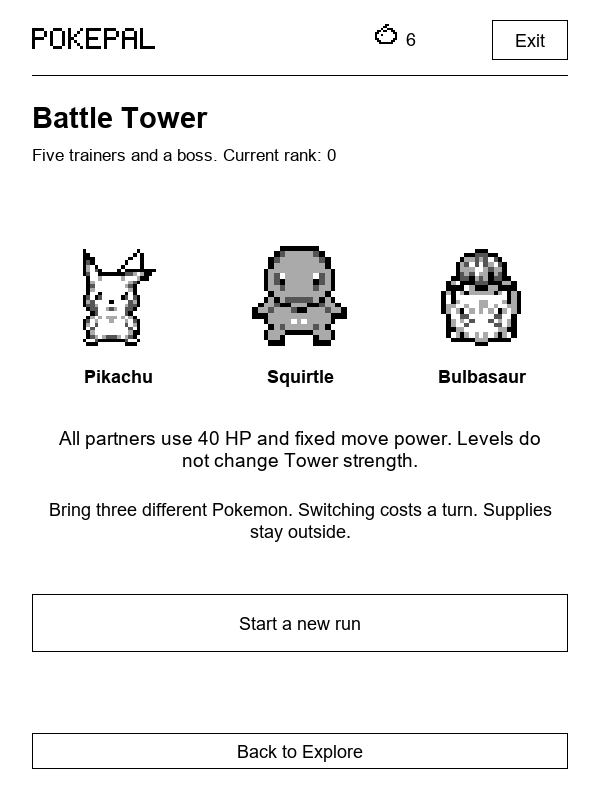
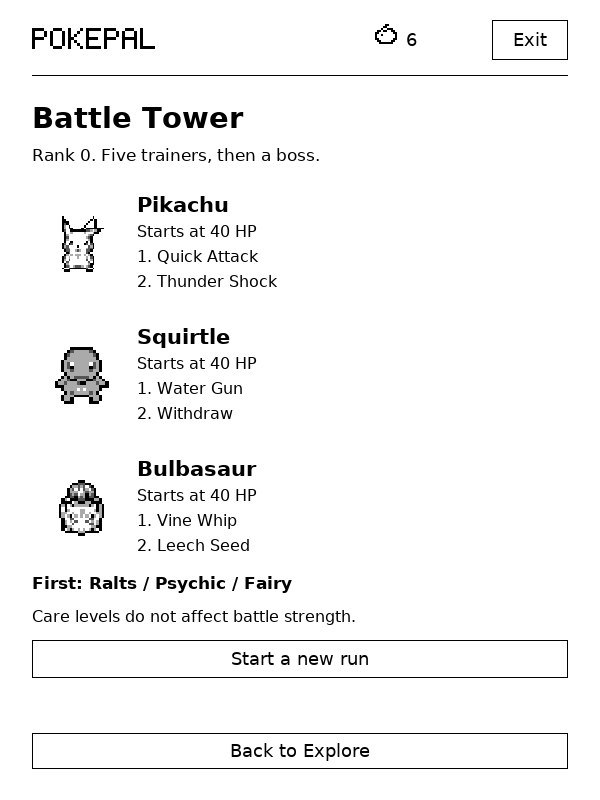
Add battle previews, family move pairs and clearer town progress

diff --git a/tests/world_layouts.py b/tests/world_layouts.py
@@ -44,7 +44,7 @@ def run(c):
                         image.save(out / f'world-{name}.png')
                     count += 1
                 v.leave(v)
-                for name in ('worldparty', 'worldchoose', 'worldmoves', 'worldshop', 'worldquests', 'worldtower', 'worldswitch', 'tower-benefits'):
+                for name in ('worldparty', 'party-overview', 'worldchoose', 'worldmoves', 'worldshop', 'worldquests', 'quests-return', 'quests-complete', 'worldtower', 'worldswitch', 'tower-benefits', 'tower-boss-preview'):
                     v = g.newView(25)
                     v.state.animation = 'off'
                     v.go(v, 'explore')
@@ -52,16 +52,29 @@ def run(c):
                     w.map = 'centre'
                     assert g.E.world.town.party(v.state, g.E, 2, 7)
                     assert g.E.world.town.party(v.state, g.E, 3, 1)
-                    w.map = 'dojo' if name == 'worldmoves' else 'tower' if name in ('worldtower', 'tower-benefits') else 'shop' if name == 'worldshop' else 'centre'
+                    w.map = 'dojo' if name == 'worldmoves' else 'tower' if name in ('worldtower', 'tower-benefits', 'tower-boss-preview') else 'shop' if name == 'worldshop' else 'woods' if name == 'party-overview' else 'centre'
                     if large:
                         g.E.act(v.state, 'preference', 'large_text', int(v.state.last))
                         g.E.act(v.state, 'preference', 'high_contrast', int(v.state.last))
-                    if name == 'tower-benefits':
+                    if name in ('tower-benefits', 'tower-boss-preview'):
                         assert g.E.world.town.startTower(v.state, g.E)
+                        if name == 'tower-boss-preview':
+                            w.camp.tower.floor = 5
+                            g.E.world.town.towerBattle(v.state, g.E)
                         w.battle.hp = 1
                         assert g.E.world.turn(v.state, g.E, 1, int(v.state.last))
                         assert g.E.world.finish(v.state)
-                    v.go(v, 'worldtower' if name == 'tower-benefits' else name)
+                    if name == 'worldswitch':
+                        assert g.E.world.town.party(v.state, g.E, 3, 92)
+                        w.map, w.x, w.y = 'meadow', 9, 2
+                        assert g.E.world.startBattle(v.state, 2)
+                        w.camp.health['7'] = 1
+                    if name == 'party-overview':
+                        w.hp, w.camp.health['7'] = 23, 0
+                    if name in ('quests-return', 'quests-complete'):
+                        w.camp.quests = 21 if name == 'quests-return' else 63
+                    screen = {'party-overview':'worldparty', 'quests-return':'worldquests', 'quests-complete':'worldquests', 'tower-benefits':'worldtower', 'tower-boss-preview':'worldtower'}.get(name, name)
+                    v.go(v, screen)
                     image = paint(v, width, height)
                     assert not c['truncated'], (name, width, large, dpi, c['truncated'])
                     if width == 600 and not large and dpi == 160:

diff --git a/docs/explore-prototype.md b/docs/explore-prototype.md
@@ -12,6 +12,8 @@ Explore opens where you last stopped. Fern Town is your base; its north path lea
 
 Tap a destination or use the directional pad. Help lets you hide the pad. Each map fits on one screen and changes at an exit. Trainers have standing, walking and battle poses. All 386 Pokémon have separate front, rear, left and right walking frames from the credited SpriteCollab sheets. Movement ends after reaching the destination; standing still schedules no animation.
 
+Tap Party on any map to check each partner's HP and two equipped moves. Fainted partners are marked. The Centre still handles healing and party changes; you can equip moves there or at the dojo.
+
 ## Routes and neighbours
 
 Fern Meadow has Caterpie, Rattata and Geodude. Fern Woods adds Oddish, Hoothoot and a trainer with Metapod. The Coast has Wingull, Krabby and a Staryu trainer. Moon Cave has Zubat, Aron and an Onix trainer.
@@ -24,11 +26,38 @@ Speak to the town guide for three small quests:
 
 Defeat the Coast trainer to open Moon Cave. Marked discoveries give a berry once. Quest rewards and first-win rewards cannot be claimed again.
 
+The town guide shows each task's progress and reward. Once you finish an objective, its status changes to Return. Claiming the reward marks it Completed. Mira's Pikachu leaves the woods when you return it, and you can walk through its old spot.
+
 ## Two moves per Pokémon
 
 Choose three Pokémon at the Centre. All 386 are available. Party battle HP is separate from care stats, and switching companions at home does not erase the party's injuries.
 
-Each partner starts with two learned moves. Pikachu's family has Quick Attack and Thunder Shock; Squirtle's has Water Gun and Withdraw; Bulbasaur's has Vine Whip and Leech Seed. Other partners start with Quick strike and a burst of their primary type.
+Each partner starts with two learned moves. Pikachu's family has Quick Attack and Thunder Shock; Squirtle's has Water Gun and Withdraw; Bulbasaur's has Vine Whip and Leech Seed. There are 20 more starting pairs:
+
+| Pokémon line | Starting moves |
+| --- | --- |
+| Charmander | Ember, Smokescreen |
+| Sandshrew | Scratch, Defense Curl |
+| Zubat | Wing Attack, Leech Life |
+| Oddish | Absorb, Acid |
+| Abra | Confusion, Reflect |
+| Machop | Karate Chop, Bulk Up |
+| Geodude | Rock Throw, Defense Curl |
+| Gastly | Lick, Night Shade |
+| Vaporeon | Water Gun, Acid Armor |
+| Jolteon | Pin Missile, Thunder Shock |
+| Snorlax | Body Slam, Amnesia |
+| Chikorita | Razor Leaf, Reflect |
+| Totodile | Bite, Water Gun |
+| Treecko | Quick Attack, Mega Drain |
+| Torchic | Peck, Ember |
+| Mudkip | Water Gun, Mud Slap |
+| Lotad | Water Gun, Mega Drain |
+| Shroomish | Mega Drain, Leech Seed |
+| Aron | Metal Claw, Iron Defense |
+| Spheal | Powder Snow, Defense Curl |
+
+These pairs carry through each evolution. Zubat can interrupt a charge or recover HP. Geodude can break a guard or block an attack before countering. Shroomish can keep draining HP, but has no quick move to interrupt a charge. Pokémon without a family pair use Quick strike and a burst of their primary type.
 
 The dojo teaches Protect and Drain strike for two berries and six energy each. Drain strike becomes available after a wild or practice win. Choose either equipped slot and tap a learned move to replace it. The two slots must contain different moves.
 
@@ -36,19 +65,21 @@ The dojo teaches Protect and Drain strike for two berries and six energy each. D
 | --- | --- |
 | Quick | Interrupts a charging opponent |
 | Burst | Deals extra damage through a guard |
-| Withdraw / Protect | Reduces incoming damage and strengthens the next hit after a successful block |
+| Guard | Reduces incoming damage and strengthens the next hit after a successful block |
 | Leech Seed | Drains up to three HP for three turns |
-| Drain strike | Uses the partner's primary type and restores three HP when it hits |
+| Drain | Restores up to three HP when the hit deals damage |
 
-The opponent shows whether it is attacking, guarding or charging before you decide. Type advantages and immunities apply. These are PokePal rules, including the shared dojo moves; they are separate from main-series move legality.
+The opponent shows whether it is attacking, guarding or charging before you decide. Move buttons tell you when a hit will interrupt that charge, break that guard or fail against an immune opponent. A defensive move shows how much damage you will take. Type advantages and immunities apply. Move effects follow PokePal's rules, including the family pairs and shared dojo moves.
 
-Switching uses a turn, including when replacing a fainted partner. A potion costs two berries, restores up to 16 HP and also uses a turn in battle. Potions cannot revive a fainted partner. The Centre heals everyone for free.
+The switch screen shows how much damage each partner will take and the HP they will have after that turn. It includes type immunity, Leech Seed and Tower healing bonuses. Switching uses a turn, including when replacing a fainted partner. A potion costs two berries, restores up to 16 HP and also uses a turn in battle. Potions cannot revive a fainted partner. The Centre heals everyone for free.
 
 A first win against each route opponent gives one berry, three XP and one bond to the battling partner, and records the opponent in the journal. Rematches and dojo practice do not pay battle rewards. Losing with the whole party sends you to the Centre. Leaving an encounter gives no reward.
 
 ## Battle Tower
 
 Choose three different Pokémon before starting. The party begins at full HP. All partners use 40 HP and fixed move power, so care levels do not determine Tower strength.
+
+Before a run, the Tower shows all three partners, their equipped moves and the first opponent's type. After a win, you can see the next opponent's type and attack type before choosing a benefit. You can also check the party's remaining HP from that screen.
 
 There are five trainer battles followed by a boss. Trainer order and the boss change between attempts. After each of the first five wins, choose one temporary benefit:
 
@@ -64,6 +95,8 @@ Each turn and benefit choice is saved. Pause, close PokePal or put the Kindle to
 
 Back up the entire `pokepal` folder before trying this branch. Opening Explore upgrades the save to version 6. Existing version 5 map and battle saves migrate with their turn and health intact. Older builds cannot read version 6; update both editions, or restore your backup before returning to 1.0.9.
 
+Family move pairs update with this build. Learned dojo moves and equipped slot choices stay saved.
+
 The game code is shared by KUAL and KOReader. Tests cover route navigation, party health, move learning, reward duplication, Tower reloads, failed saves, sleep, touch controls and larger text. The screenshots below come from the desktop test renderer. Physical Kindle refresh speed and touch response still need a device test.
 
 | Town | Party |
@@ -73,5 +106,9 @@ The game code is shared by KUAL and KOReader. Tests cover route navigation, part
 | Tower | Battle |
 | --- | --- |
 | ![Battle Tower](explore-tower.png) | ![Battle](explore-battle.png) |
+
+| Quest progress | Next Tower opponent |
+| --- | --- |
+| ![Quest progress](explore-quests.png) | ![Tower benefits](explore-benefits.png) |
 
 The harbour town and mountain village remain later additions. This branch has one town with four outdoor areas.

diff --git a/README.md b/README.md
@@ -8,6 +8,8 @@ A Pokémon pet for your Kindle. Feed it, play together and watch it grow.
 
 This branch adds [Fern Town and Explore](docs/explore-prototype.md): a three-Pokémon party, learned move choices, four outdoor areas, quests, shops and a six-battle Tower run. All 386 Pokémon have directional walking frames. These features are not included in the 1.0.9 download.
 
+Check party HP and moves from the map, follow quest progress at the town guide, and preview Tower opponents before choosing a benefit. Battle buttons explain the current opening, and switching previews the damage your next partner will take. There are 20 more starting move pairs across Pokémon families and evolution branches.
+
 ## Features
 
 - Choose any of the 386 Pokémon from Kanto, Johto and Hoenn, with 11 quick starters.
